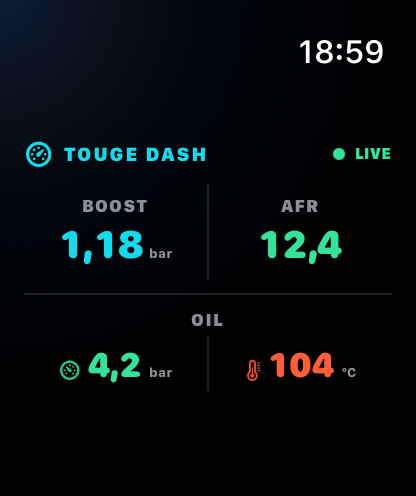
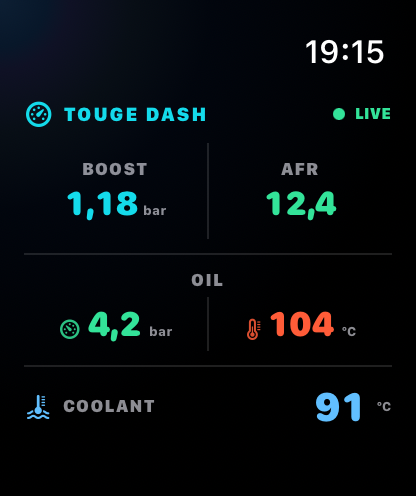
Keep coolant temperature visible across displays

diff --git a/ios/TougeDashWidgets/TougeDashWidgets.swift b/ios/TougeDashWidgets/TougeDashWidgets.swift
@@ -124,7 +124,7 @@ private struct MediumTelemetryWidget: View {
             VStack(spacing: 7) {
                 WidgetMetric(title: "BOOST", value: snapshot.boostBar.formatted(.number.precision(.fractionLength(2))), unit: "bar", tint: WidgetPalette.cyan)
                 WidgetMetric(title: "AFR", value: snapshot.afr.formatted(.number.precision(.fractionLength(1))), unit: "", tint: WidgetPalette.mint)
-                WidgetMetric(title: "COOLANT", value: snapshot.coolantCelsius.formatted(.number.precision(.fractionLength(0))), unit: "°C", tint: snapshot.coolantCelsius > 108 ? WidgetPalette.orange : .white)
+                WidgetMetric(title: "COOLANT", value: snapshot.coolantCelsius.formatted(.number.precision(.fractionLength(0))), unit: "°C", tint: coolantTint(for: snapshot))
             }
             .frame(maxWidth: .infinity)
 
@@ -202,7 +202,7 @@ struct TougeDashLiveActivity: Widget {
                     HStack {
                         LiveMetric(title: "AFR", value: context.state.telemetry.afr.formatted(.number.precision(.fractionLength(1))), tint: WidgetPalette.mint)
                         Spacer()
-                        LiveMetric(title: "COOLANT", value: Int(context.state.telemetry.coolantCelsius).formatted() + "°", tint: context.state.telemetry.coolantCelsius > 108 ? WidgetPalette.orange : .white)
+                        LiveMetric(title: "COOLANT", value: Int(context.state.telemetry.coolantCelsius).formatted() + "°", tint: coolantTint(for: context.state.telemetry))
                         Spacer()
                         LiveMetric(title: "OIL T", value: Int(context.state.telemetry.oilTemperatureCelsius).formatted(), unit: "°C", tint: oilTemperatureTint(for: context.state.telemetry))
                     }
@@ -279,7 +279,7 @@ private struct TelemetryActivityPanel: View {
                 ActivityMetricTile(
                     title: "BOOST",
                     value: snapshot.boostBar.formatted(.number.precision(.fractionLength(2))),
-                    unit: "bar",
+                    unit: "",
                     tint: WidgetPalette.cyan,
                     compact: compact
                 )
@@ -291,12 +291,20 @@ private struct TelemetryActivityPanel: View {
                     tint: WidgetPalette.mint,
                     compact: compact
                 )
+                if compact { ActivityMetricDivider() }
+                ActivityMetricTile(
+                    title: "COOL",
+                    value: Int(snapshot.coolantCelsius).formatted(.number.grouping(.never)),
+                    unit: "°C",
+                    tint: coolantTint(for: snapshot),
+                    compact: compact
+                )
             }
         }
         .padding(.horizontal, compact ? 10 : 14)
         .padding(.vertical, compact ? 7 : 11)
         .accessibilityElement(children: .combine)
-        .accessibilityLabel("\(connectionLabel), oil pressure \(snapshot.oilPressureBar) bar, boost \(snapshot.boostBar) bar, AFR \(snapshot.afr), oil temperature \(Int(snapshot.oilTemperatureCelsius)) degrees Celsius")
+        .accessibilityLabel("\(connectionLabel), oil pressure \(snapshot.oilPressureBar) bar, boost \(snapshot.boostBar) bar, AFR \(snapshot.afr), oil temperature \(Int(snapshot.oilTemperatureCelsius)) degrees Celsius, coolant temperature \(Int(snapshot.coolantCelsius)) degrees Celsius")
     }
 }
 
@@ -455,6 +463,10 @@ private func oilPressureTint(for snapshot: TelemetrySnapshot) -> Color {
 
 private func oilTemperatureTint(for snapshot: TelemetrySnapshot) -> Color {
     snapshot.oilTemperatureCelsius > 135 ? WidgetPalette.red : WidgetPalette.orange
+}
+
+private func coolantTint(for snapshot: TelemetrySnapshot) -> Color {
+    snapshot.coolantCelsius > 108 ? WidgetPalette.red : .white
 }
 
 private struct WidgetBackground: View {

diff --git a/ios/Shared/WatchTelemetryPayload.swift b/ios/Shared/WatchTelemetryPayload.swift
@@ -7,6 +7,7 @@ struct WatchTelemetryPayload: Codable, Equatable, Sendable {
     var afr: Double
     var oilPressureBar: Double
     var oilTemperatureCelsius: Double
+    var coolantCelsius: Double
     var rpm: Double
     var hasCriticalWarning: Bool
     var updatedAt: Date
@@ -16,6 +17,7 @@ struct WatchTelemetryPayload: Codable, Equatable, Sendable {
         afr: Double,
         oilPressureBar: Double,
         oilTemperatureCelsius: Double,
+        coolantCelsius: Double,
         rpm: Double,
         hasCriticalWarning: Bool,
         updatedAt: Date
@@ -24,6 +26,7 @@ struct WatchTelemetryPayload: Codable, Equatable, Sendable {
         self.afr = afr
         self.oilPressureBar = oilPressureBar
         self.oilTemperatureCelsius = oilTemperatureCelsius
+        self.coolantCelsius = coolantCelsius
         self.rpm = rpm
         self.hasCriticalWarning = hasCriticalWarning
         self.updatedAt = updatedAt
@@ -34,6 +37,7 @@ struct WatchTelemetryPayload: Codable, Equatable, Sendable {
         afr: 0,
         oilPressureBar: 0,
         oilTemperatureCelsius: 0,
+        coolantCelsius: 0,
         rpm: 0,
         hasCriticalWarning: false,
         updatedAt: .distantPast
@@ -44,6 +48,7 @@ struct WatchTelemetryPayload: Codable, Equatable, Sendable {
         afr: 12.4,
         oilPressureBar: 4.2,
         oilTemperatureCelsius: 104,
+        coolantCelsius: 91,
         rpm: 6_420,
         hasCriticalWarning: false,
         updatedAt: .now
@@ -61,12 +66,17 @@ struct WatchTelemetryPayload: Codable, Equatable, Sendable {
         oilTemperatureCelsius > 140
     }
 
+    var hasCoolantWarning: Bool {
+        coolantCelsius > 108
+    }
+
     #if os(iOS)
     init(snapshot: TelemetrySnapshot) {
         boostBar = snapshot.boostBar
         afr = snapshot.afr
         oilPressureBar = snapshot.oilPressureBar
         oilTemperatureCelsius = snapshot.oilTemperatureCelsius
+        coolantCelsius = snapshot.coolantCelsius
         rpm = snapshot.rpm
         hasCriticalWarning = snapshot.hasCriticalWarning
         updatedAt = snapshot.updatedAt

diff --git a/ios/TougeDashWatch/WatchDashboardView.swift b/ios/TougeDashWatch/WatchDashboardView.swift
@@ -34,6 +34,12 @@ struct WatchDashboardView: View {
 
             oilPanel(snapshot: snapshot)
 
+            Rectangle()
+                .fill(Color.white.opacity(0.12))
+                .frame(height: 1)
+
+            coolantPanel(snapshot: snapshot)
+
             if snapshot.hasCriticalWarning {
                 Label("ENGINE WARNING", systemImage: "exclamationmark.triangle.fill")
                     .font(.system(size: 9, weight: .black))
@@ -96,6 +102,26 @@ struct WatchDashboardView: View {
                     tint: snapshot.hasOilTemperatureWarning ? .tougeOrange : .tougeWarm
                 )
             }
+        }
+    }
+
+    private func coolantPanel(snapshot: WatchTelemetryPayload) -> some View {
+        HStack(spacing: 5) {
+            Image(systemName: "thermometer.and.liquid.waves")
+                .font(.system(size: 11, weight: .bold))
+                .foregroundStyle(snapshot.hasCoolantWarning ? Color.tougeOrange : Color.tougeIce)
+            Text("COOLANT")
+                .font(.system(size: 9, weight: .black))
+                .tracking(0.4)
+                .foregroundStyle(.secondary)
+            Spacer(minLength: 4)
+            Text(Int(snapshot.coolantCelsius).formatted(.number.grouping(.never)))
+                .font(.system(size: 21, weight: .black, design: .rounded))
+                .monospacedDigit()
+                .foregroundStyle(snapshot.hasCoolantWarning ? Color.tougeOrange : Color.tougeIce)
+            Text("°C")
+                .font(.system(size: 7, weight: .bold))
+                .foregroundStyle(.secondary)
         }
     }
 }
@@ -168,6 +194,7 @@ private extension Color {
     static let tougeCyan = Color(red: 0.08, green: 0.86, blue: 0.92)
     static let tougeMint = Color(red: 0.20, green: 0.89, blue: 0.60)
     static let tougeWarm = Color(red: 1.00, green: 0.36, blue: 0.22)
+    static let tougeIce = Color(red: 0.38, green: 0.75, blue: 1.00)
     static let tougeOrange = Color(red: 1.00, green: 0.23, blue: 0.12)
     static let tougeNavy = Color(red: 0.05, green: 0.12, blue: 0.20)
 }

diff --git a/ios/TougeDashTests/EMUProtocolTests.swift b/ios/TougeDashTests/EMUProtocolTests.swift
@@ -70,6 +70,7 @@ final class EMUProtocolTests: XCTestCase {
         XCTAssertEqual(payload.afr, 12.4)
         XCTAssertEqual(payload.oilPressureBar, 4.2)
         XCTAssertEqual(payload.oilTemperatureCelsius, 104)
+        XCTAssertEqual(payload.coolantCelsius, 91)
         XCTAssertFalse(payload.hasCriticalWarning)
     }
 
@@ -79,6 +80,7 @@ final class EMUProtocolTests: XCTestCase {
             afr: 14.7,
             oilPressureBar: 0.3,
             oilTemperatureCelsius: 100,
+            coolantCelsius: 90,
             rpm: 3_000,
             hasCriticalWarning: true,
             updatedAt: .now
@@ -88,6 +90,7 @@ final class EMUProtocolTests: XCTestCase {
             afr: 14.7,
             oilPressureBar: 4,
             oilTemperatureCelsius: 145,
+            coolantCelsius: 90,
             rpm: 3_000,
             hasCriticalWarning: true,
             updatedAt: .now
@@ -97,5 +100,20 @@ final class EMUProtocolTests: XCTestCase {
         XCTAssertFalse(lowPressure.hasOilTemperatureWarning)
         XCTAssertFalse(hotOil.hasOilPressureWarning)
         XCTAssertTrue(hotOil.hasOilTemperatureWarning)
+    }
+
+    func testWatchPayloadDetectsHotCoolant() {
+        let payload = WatchTelemetryPayload(
+            boostBar: 0,
+            afr: 14.7,
+            oilPressureBar: 4,
+            oilTemperatureCelsius: 100,
+            coolantCelsius: 112,
+            rpm: 3_000,
+            hasCriticalWarning: true,
+            updatedAt: .now
+        )
+
+        XCTAssertTrue(payload.hasCoolantWarning)
     }
 }

diff --git a/ios/README.md b/ios/README.md
@@ -73,16 +73,21 @@ Touge Dash nie udaje pełnej aplikacji CarPlay i nie wymaga entitlementu z kateg
 - `Touge Dash` jako widget `systemSmall`, który można dodać na ekranie widgetów CarPlay,
 - Live Activity uruchamiana automatycznie razem z aplikacją; system pokazuje ją w CarPlay Dashboard lub jako powiadomienie. Przycisk `Stop card` pozwala ją ręcznie wyłączyć.
 
-Live Activity ma układ `ActivityFamily.small` z ciśnieniem oleju, boostem, AFR i temperaturą oleju. Na iOS 26 aktywność jest uruchamiana przed skanowaniem BLE, dzięki czemu CoreBluetooth zachowuje swoje uprawnienia również po zablokowaniu telefonu. Elementy na CarPlay są tylko informacyjne — system nie uruchomi aplikacji po stuknięciu karty, ponieważ projekt nie deklaruje pełnej aplikacji CarPlay.
+Live Activity ma układ `ActivityFamily.small` z ciśnieniem i temperaturą oleju,
+boostem, AFR oraz temperaturą płynu chłodniczego. Na iOS 26 aktywność jest
+uruchamiana przed skanowaniem BLE, dzięki czemu CoreBluetooth zachowuje swoje
+uprawnienia również po zablokowaniu telefonu. Elementy na CarPlay są tylko
+informacyjne — system nie uruchomi aplikacji po stuknięciu karty, ponieważ
+projekt nie deklaruje pełnej aplikacji CarPlay.
 
 ## Apple Watch
 
 Target `TougeDashWatch` jest osadzony w aplikacji iPhone. Po instalacji pojawi
 się na sparowanym zegarku automatycznie albo będzie dostępny w aplikacji Watch
-na iPhonie. Telemetria jest przesyłana na żywo, gdy aplikacja zegarkowa jest
-otwarta; `applicationContext` zapewnia również ostatnią znaną próbkę po
-chwilowej utracie łączności. Przejście w stan krytyczny wywołuje haptyczne
-ostrzeżenie.
+na iPhonie. Telemetria — wraz z temperaturą płynu chłodniczego — jest przesyłana
+na żywo, gdy aplikacja zegarkowa jest otwarta; `applicationContext` zapewnia
+również ostatnią znaną próbkę po chwilowej utracie łączności. Przejście w stan
+krytyczny wywołuje haptyczne ostrzeżenie.
 
 ## Diagnostyka pierwszego połączenia
 

diff --git a/README.md b/README.md
@@ -65,14 +65,14 @@ Dokładniejsze informacje o podpisywaniu, BLE i diagnostyce są w
 Touge Dash nie jest pełną aplikacją CarPlay i nie pojawia się na liście ikon.
 Używa Live Activity w rozmiarze `ActivityFamily.small`. Po podłączeniu telefonu
 aktywność pojawia się w CarPlay Dashboard albo jako powiadomienie. Pokazuje
-ciśnienie oleju, boost, AFR i temperaturę oleju.
+ciśnienie i temperaturę oleju, boost, AFR oraz temperaturę płynu chłodniczego.
 
 ### Apple Watch
 
-Aplikacja zegarkowa pokazuje boost, AFR, ciśnienie i temperaturę oleju. iPhone
-przekazuje dane przez WatchConnectivity maksymalnie dwa razy na sekundę, a
-zegarek zachowuje ostatni odczyt po utracie połączenia. Stan krytyczny zmienia
-kolory i uruchamia haptyczne ostrzeżenie.
+Aplikacja zegarkowa pokazuje boost, AFR, ciśnienie i temperaturę oleju oraz
+temperaturę płynu chłodniczego. iPhone przekazuje dane przez WatchConnectivity
+maksymalnie dwa razy na sekundę, a zegarek zachowuje ostatni odczyt po utracie
+połączenia. Stan krytyczny zmienia kolory i uruchamia haptyczne ostrzeżenie.
 
 <p align="center">
   <img src="docs/screenshots/apple-watch.png" width="260" alt="Touge Dash na Apple Watch" />
